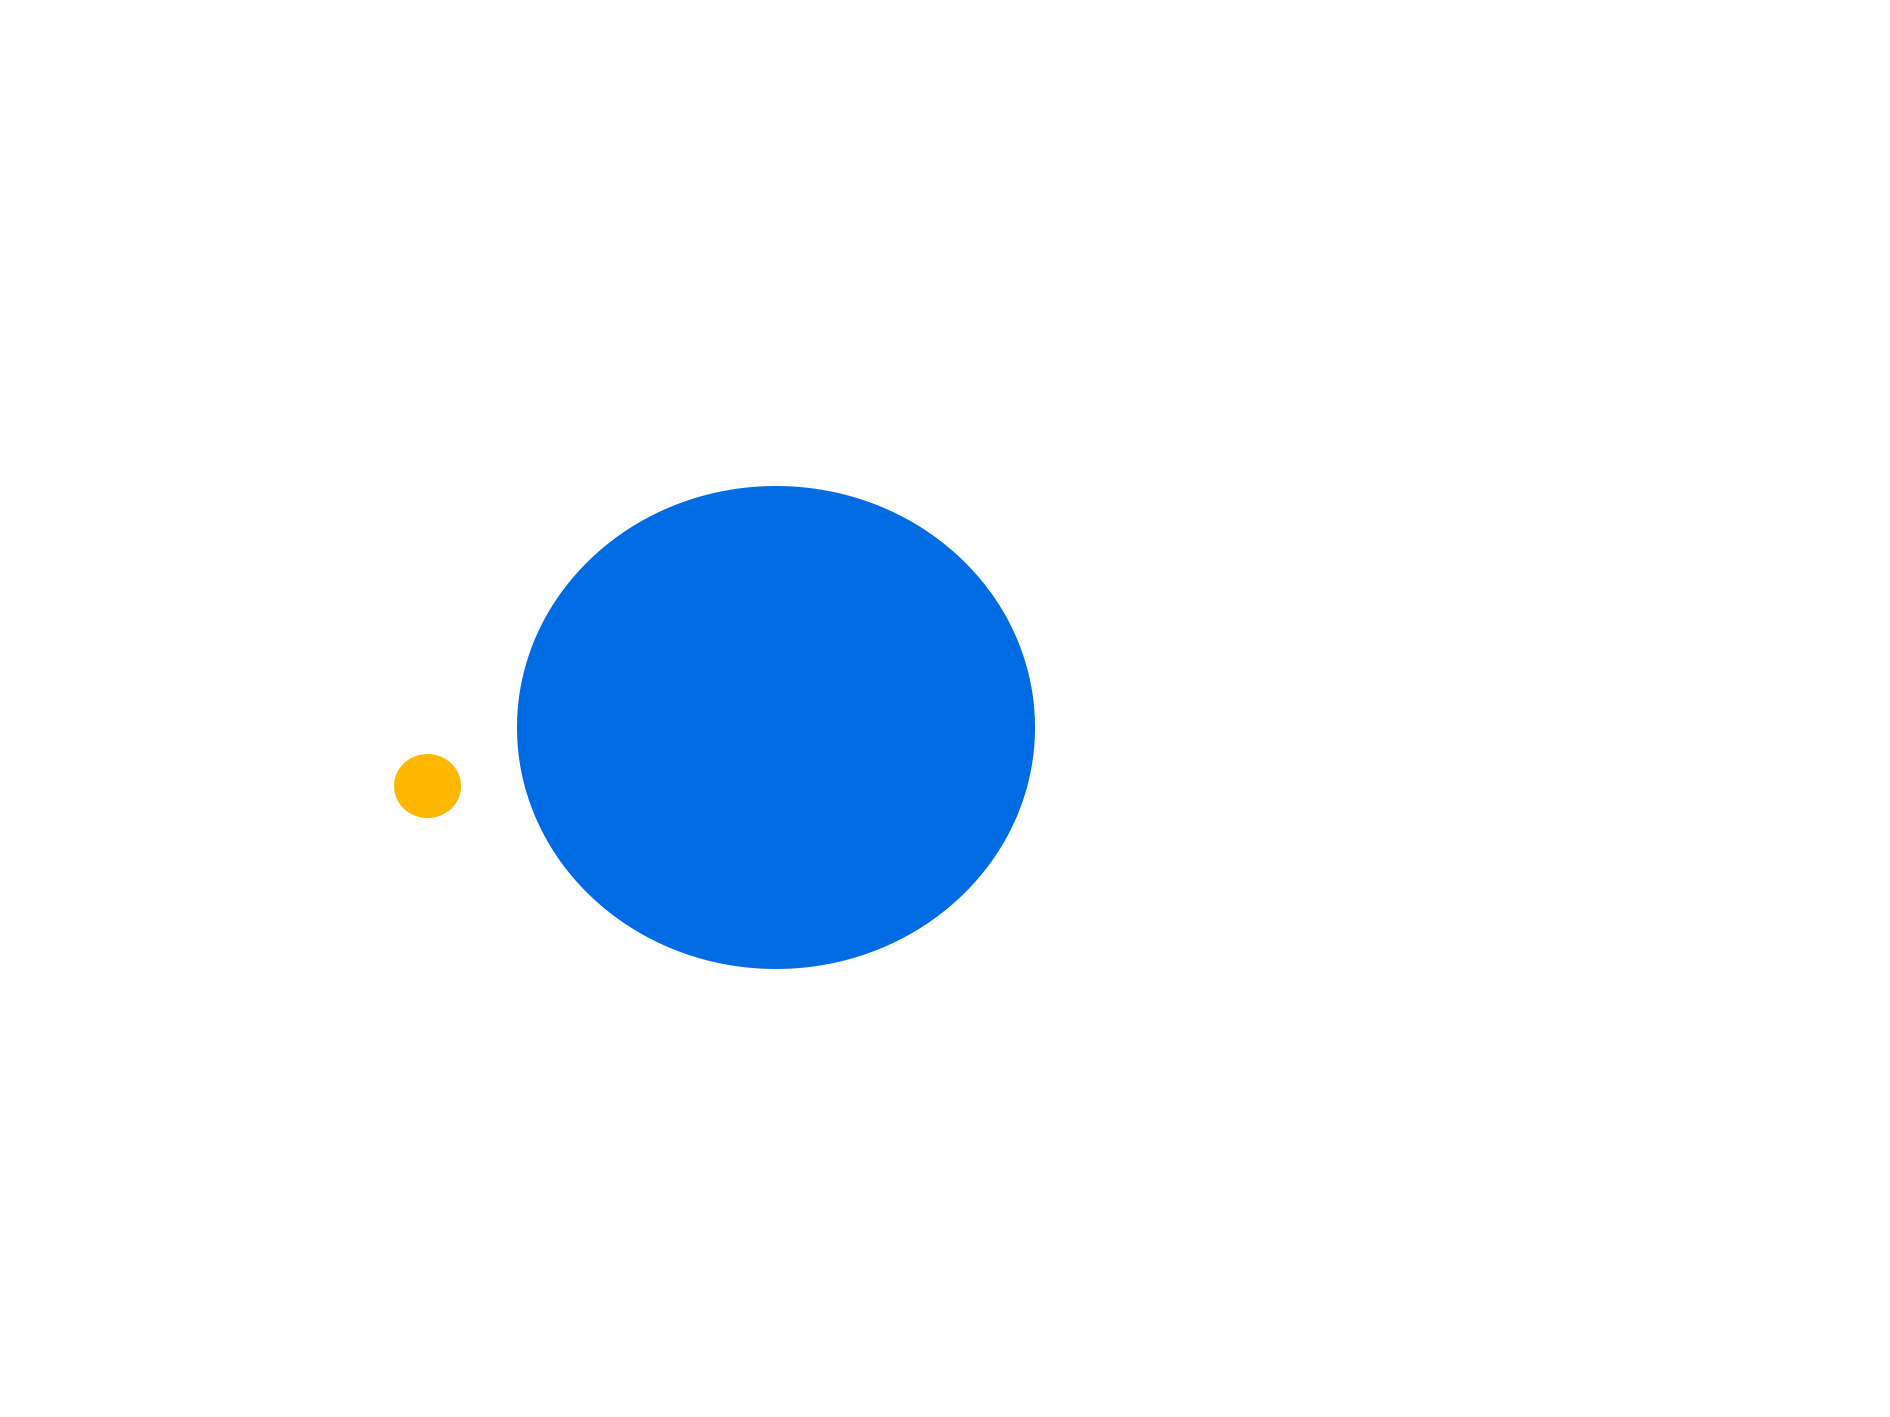
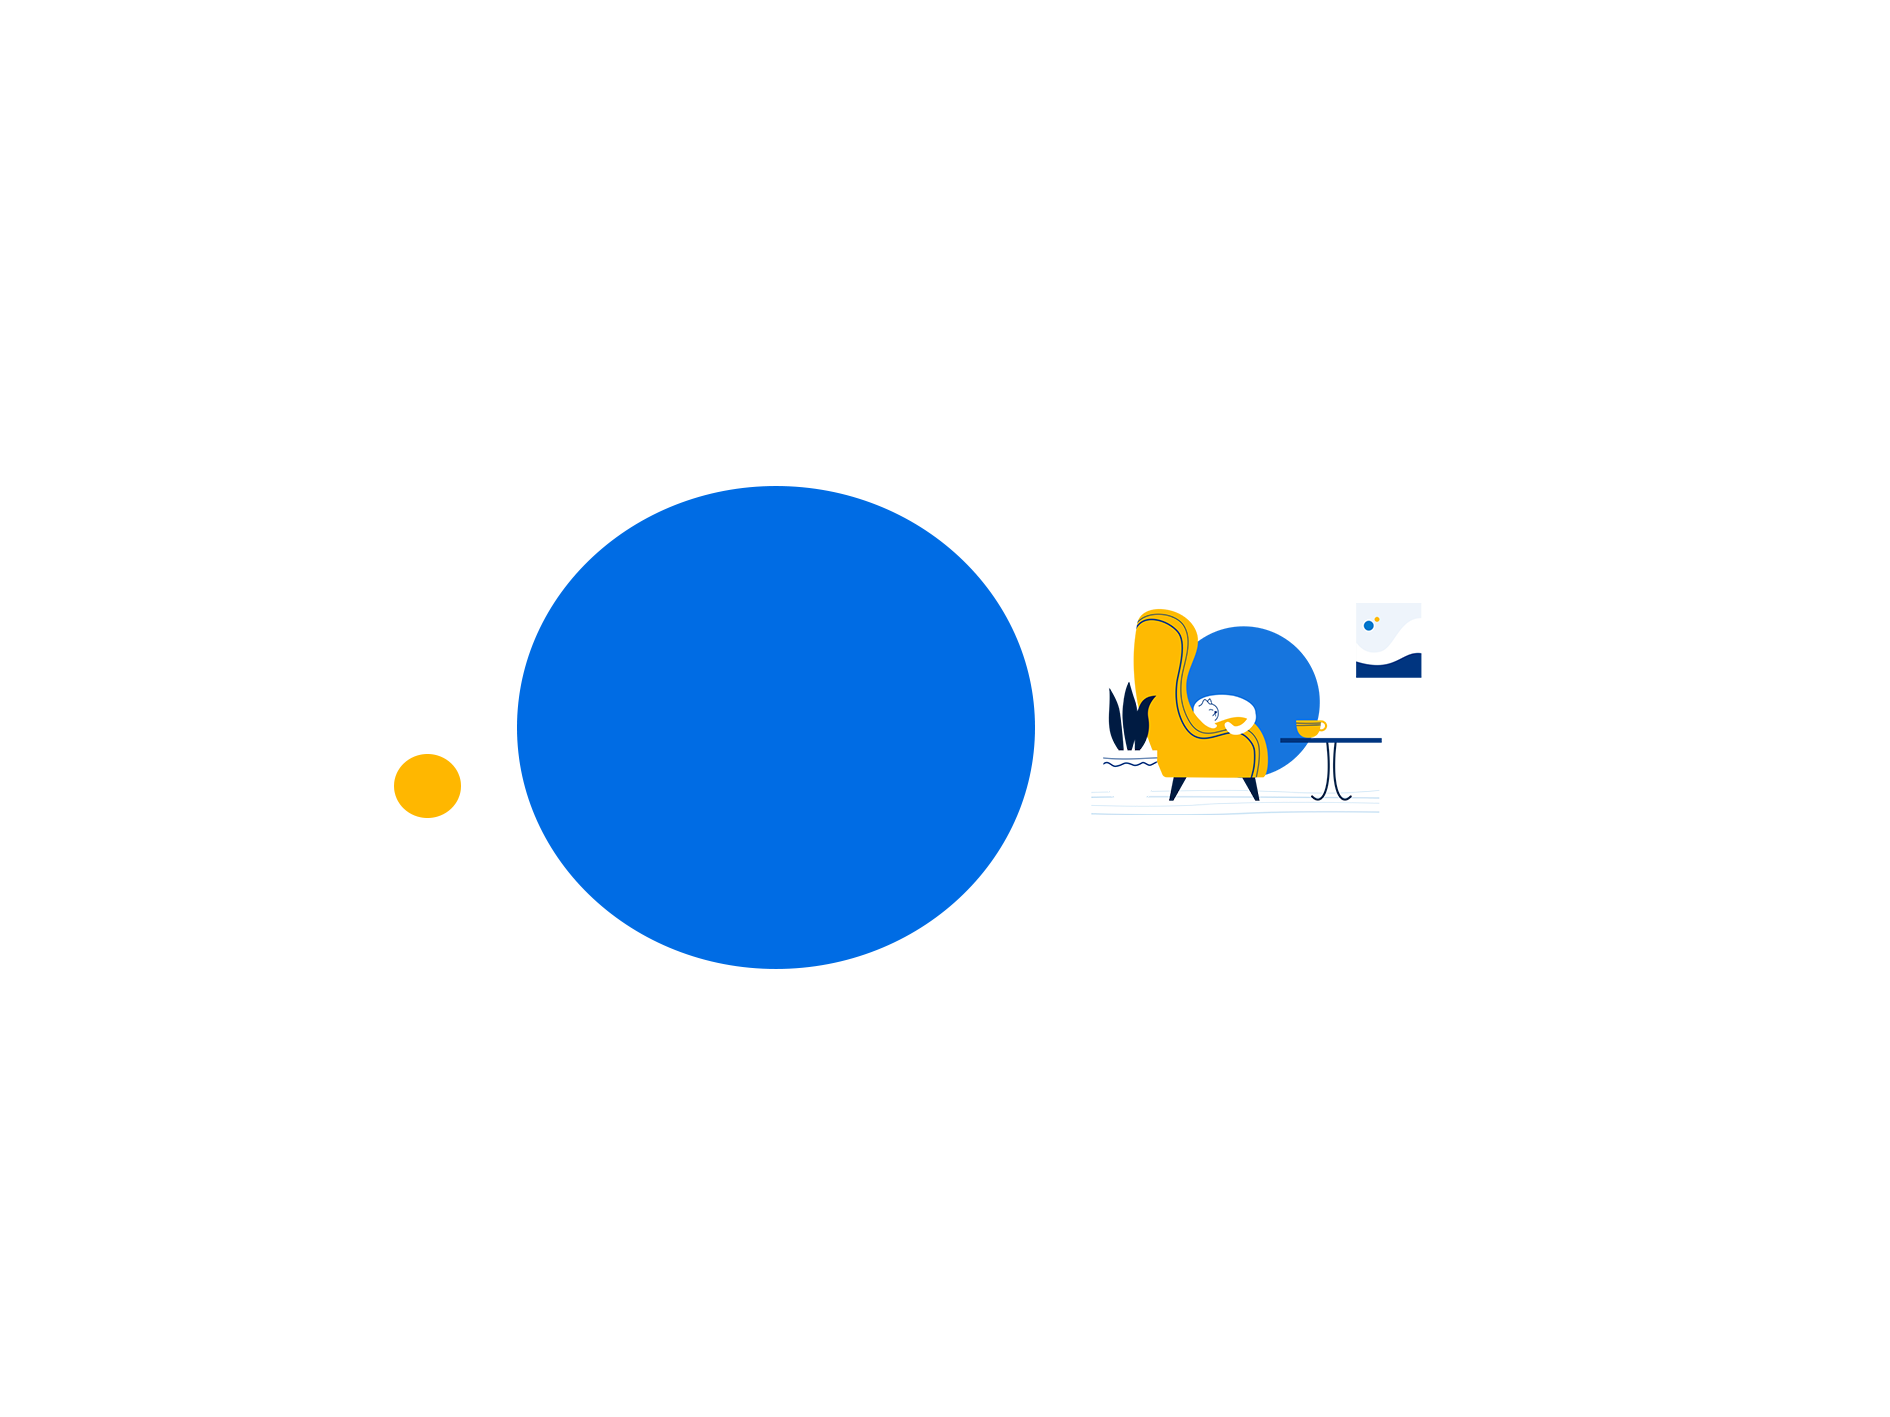
Update
Dosyalar ve bi kaç fotoğraf güncellendi, telefon görünümü ve yeni ayarlamaları yaptım. Fotoğraflar artık bozuk görünmüyor.

Changed region(s): [[0.5619, 0.4347, 0.7492, 0.59]]

diff --git a/index.js b/index.js
@@ -193,7 +193,49 @@ function toggleDropdown() {
     });
   });
 
+// Deniz Başlangıç
+//! Sıradaki seyahatlar kısmındaki değişen yazının javascripti 
+const textArray = [
+  "eviniz",
+  "kulübeler",
+  "daireler",
+  "apart oteller",
+  "villalar",
+  "tatil evleri"
+  ];
+  let currentIndex = 0;
+  const textElement = document.getElementById("text-container");
 
+  function changeText() {
+  textElement.innerHTML = textArray[currentIndex];
+  currentIndex = (currentIndex + 1) % textArray.length;
+  }
+
+  setInterval(changeText, 1000);
+
+
+//! Beğendiğimiz seyahat noktaları JAVASCRİPT Kısmı
+
+function openBOLGELER() {
+  document.getElementById('content-1').style.display = 'block';
+  document.getElementById('content-2').style.display = 'none';
+  document.getElementById('content-3').style.display = 'none';
+}
+
+function openSEHIRLER() {
+  document.getElementById('content-1').style.display = 'none';
+  document.getElementById('content-2').style.display = 'block';
+  document.getElementById('content-3').style.display = 'none';
+}
+
+function openSIMGESELYAPILAR() {
+  document.getElementById('content-1').style.display = 'none';
+  document.getElementById('content-2').style.display = 'none';
+  document.getElementById('content-3').style.display = 'block';
+}
+
+
+// Deniz Bitiş
 
 
 

diff --git a/style.css b/style.css
@@ -963,8 +963,20 @@ padding: 5px;
     color: #006ce6;
 }
 .back-circle{
-    background-image: url(img/deniz/13.png);
+    background-image: url(img/deniz/14.png);
     background-position: center;
+}
+.ground-text{
+    width: 80%;
+    padding: 4rem;
+    text-align: start;
+    margin: 0 auto;
+    text-decoration: none; 
+    color: white;
+}
+.ground-text h4 a{
+    text-decoration: none; 
+    color: white;
 }
 
 /* Beğendiğimiz seyahat noktaları css kısmı */
@@ -1325,6 +1337,27 @@ footer{
             margin-top: 10px;
         }
 }
+@media screen and (max-width: 1400px){
+    .back-circle{
+        background-image: url(img/deniz/13.png);
+        background-position: center;
+    }
+
+    .ground-text{
+        width: 70%;
+        padding: 1rem;
+        text-align: start;
+        margin: 0 auto;
+    }
+}
+@media screen and (max-width: 1200px){
+    .back-circle{
+        background-image: none;
+}
+    .ground-text h4 a{
+        color: black;
+    }
+}
 
 
 
@@ -1569,6 +1602,8 @@ footer{
     }
 
 }
+
+
 
 @media screen and (max-width: 400px) {
 

diff --git a/index.html b/index.html
@@ -751,14 +751,14 @@
         </div>
     </div>
 </section>
+
+
 <!-- Sıradaki seyahatiniz için evler bulun kısmı -->
 <section>
     <div class=" container container-2 mt-3 back-circle" >
-        <div class="row mt-3 ">
-            <div class="col-2"></div>
-            <div class= "col-5 borders mt-5 "><h4><b><a style="text-decoration: none; color: white;" href="">Sıradaki seyahatiniz için <br> <span id="text-container" class="underline">evler</span> <br>bulun</a></b></h4>
+        <div class="back-circle-ground mt-3">
+            <div class= "ground-text borders mt-5"><h4><b><a href="">Sıradaki seyahatiniz için <br> <span id="text-container" class="underline">evler</span> <br>bulun</a></b></h4>
             <button class="cnt-2-btn mt-3">Evleri keşfet</button></div>
-            <div class="col-5 mt-3 mb-3"><a href="#"><img src="img/deniz/bh_aw_cpg_main_image.b4347622.png" width="380px"></a></div>
         </div>
     </div>
 </section>
